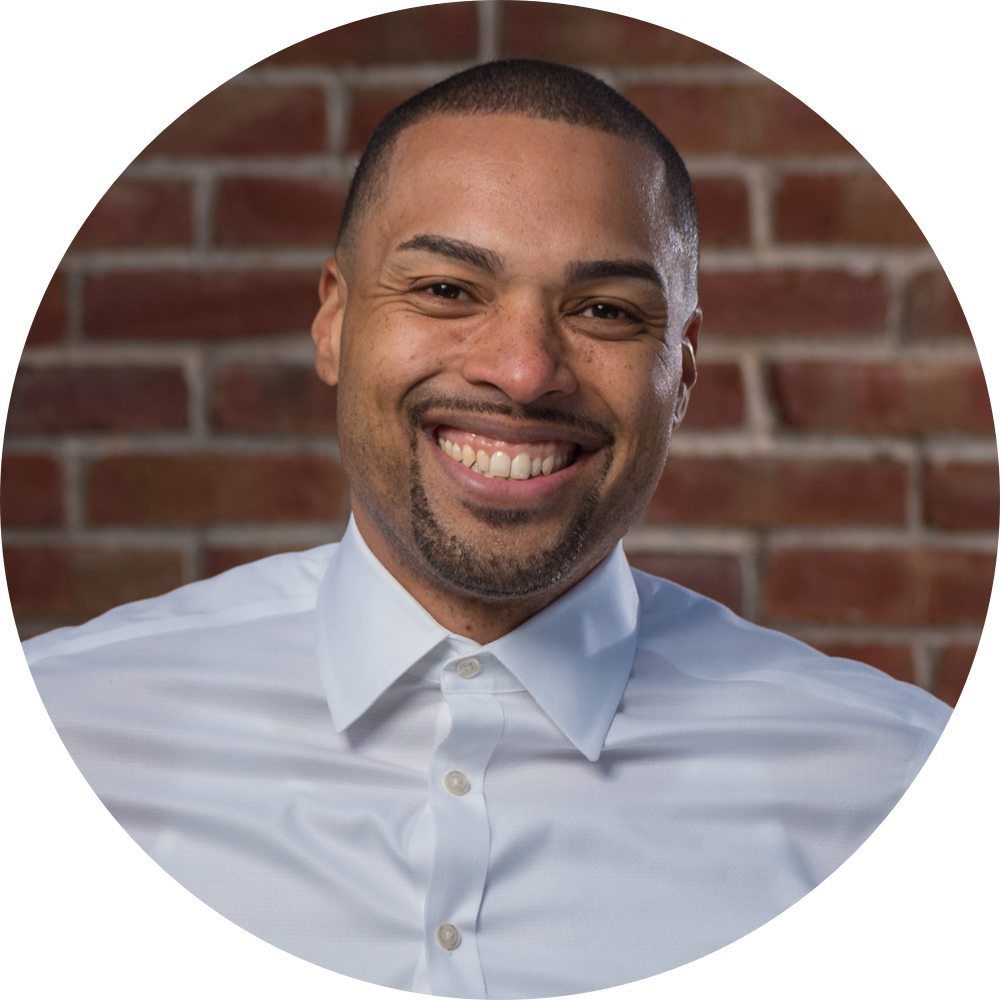
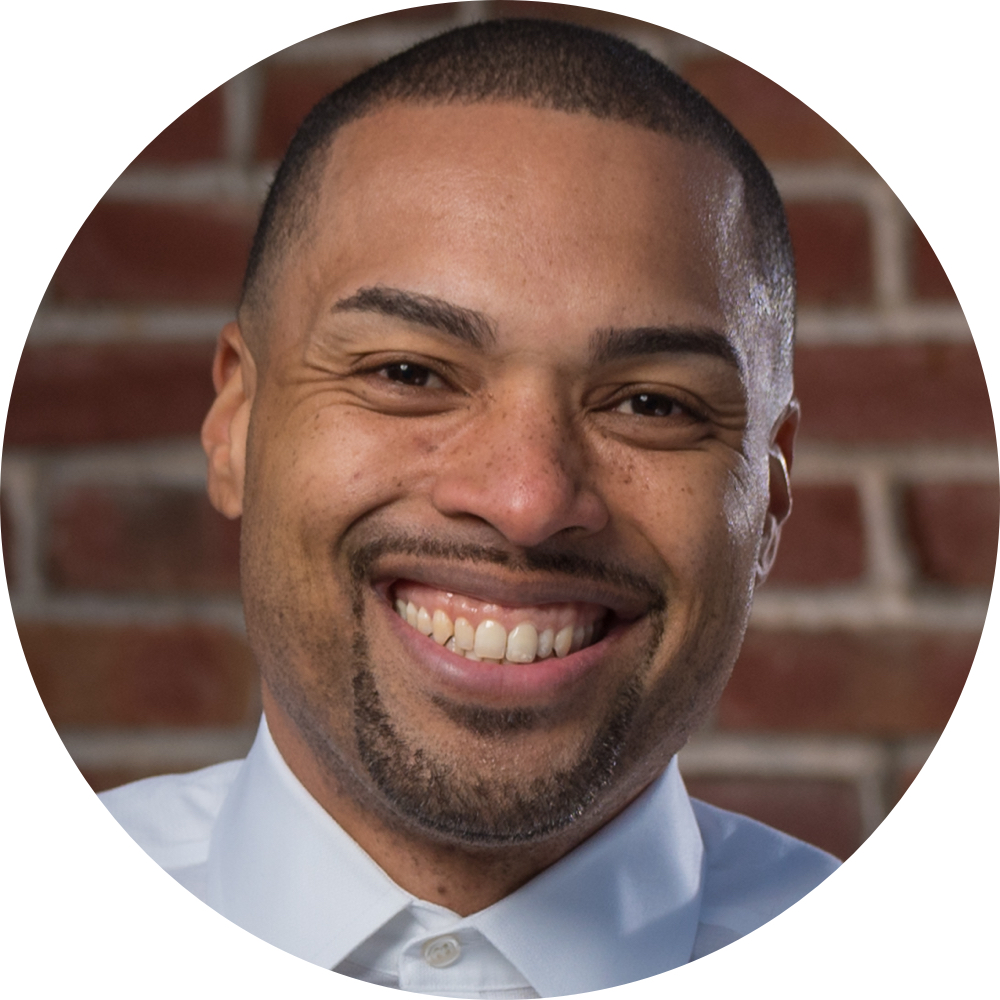
Removed unused files

diff --git a/about-us.html b/about-us.html
@@ -100,7 +100,7 @@
 					<a href="https://www.instagram.com/twojing"><img src="images/instagram.svg" alt="link to instagram profile" style="margin-right: .5em;" /></a>
 				</div>
 				<div class="team-member">
-					<img class="profile" style="width: 150px;" src="images/tyrone-profile.png" alt="profile photo of Tyrone Ross, Advisor" />
+					<img class="profile" style="width: 150px;" src="images/tyrone-profile.jpg" alt="profile photo of Tyrone Ross, Advisor" />
 					<h5>TYRONE ROSS</h5>
 					<p>Managing Partner, Noble Bridge Wealth</p>
 					<a href="https://www.twitter.com/tr401"><img src="images/twitter.svg" alt="link to twitter profile"/></a>
